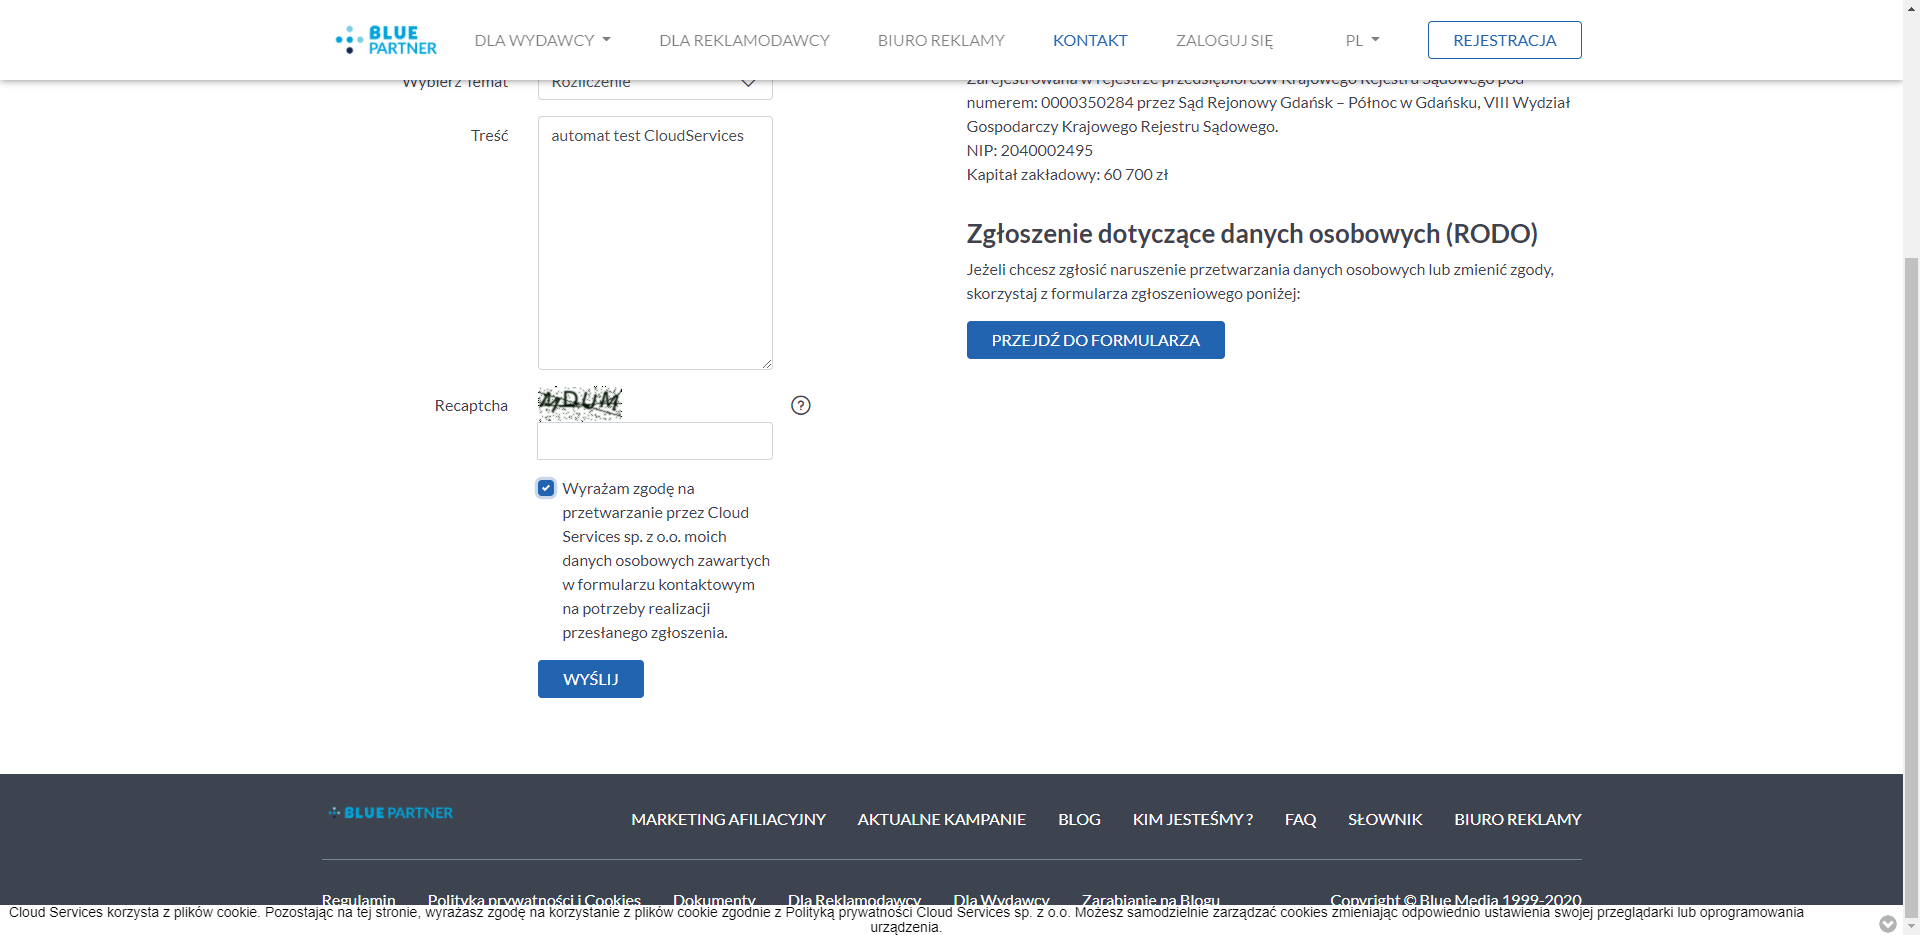
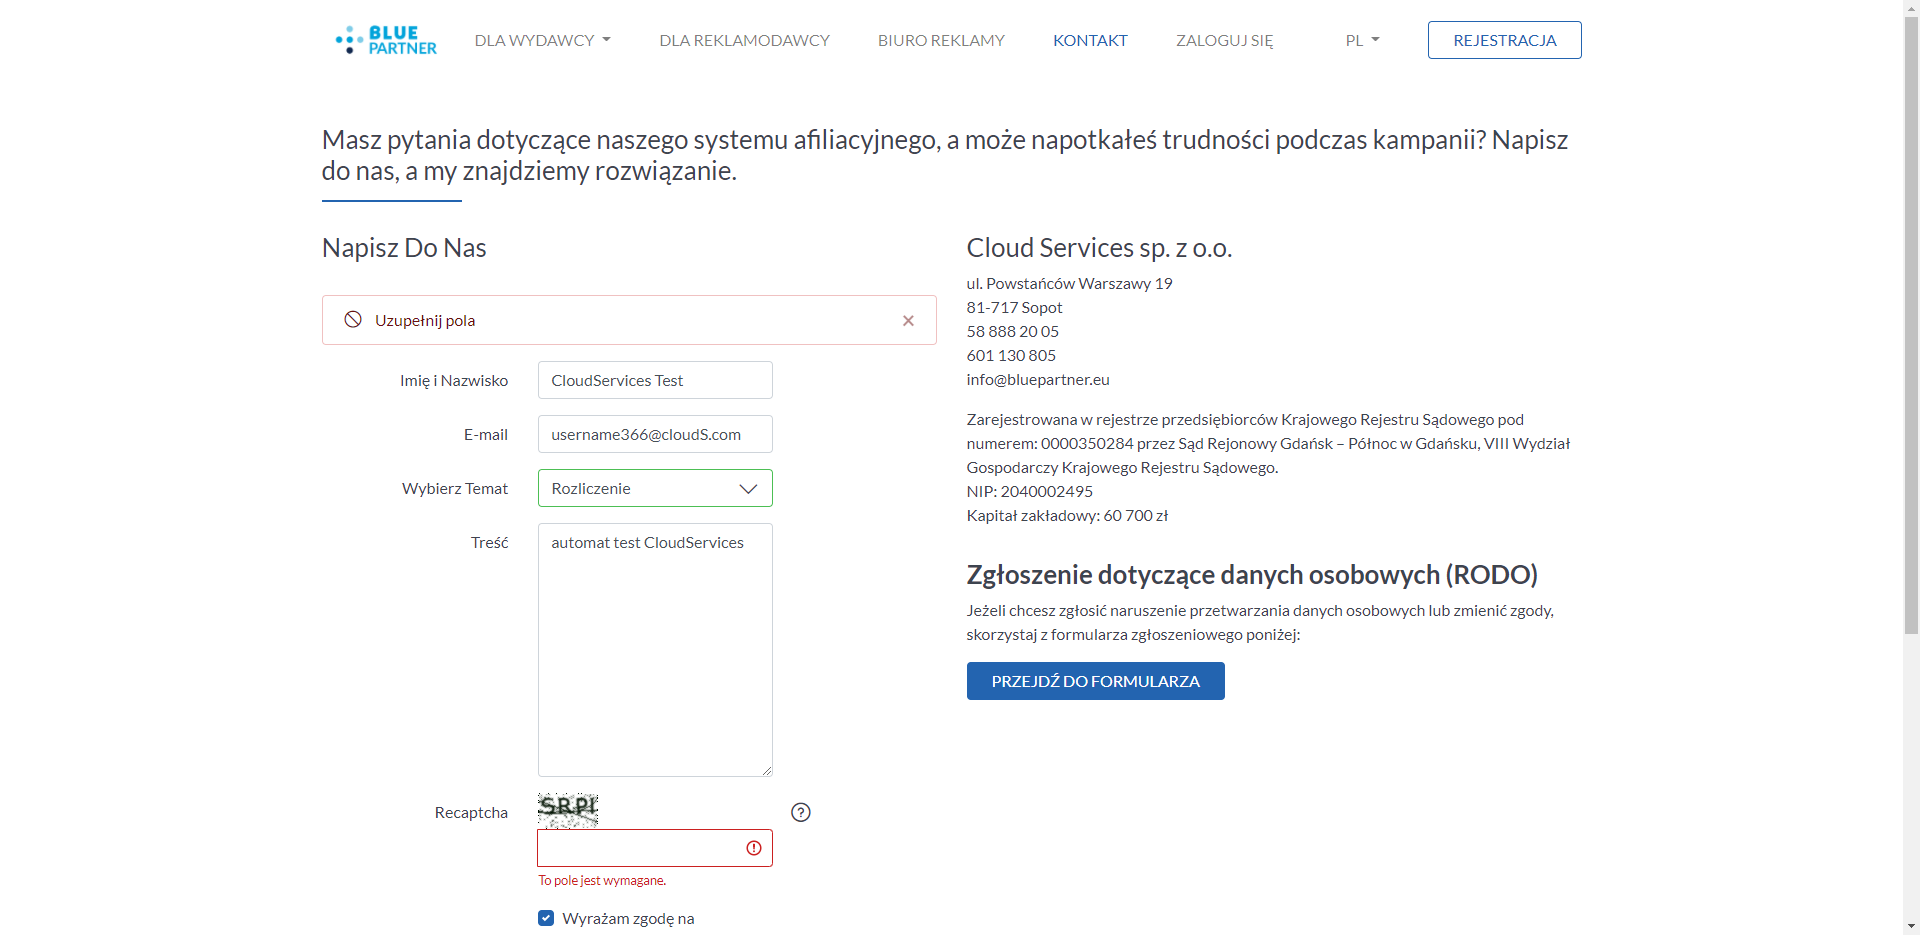
some changes

diff --git a/src/test/java/Test/FormPageTest.java b/src/test/java/Test/FormPageTest.java
@@ -1,6 +1,6 @@
 package Test;
 
-import Pages.FormPage;
+import pages.FormPage;
 import base.TestBase;
 import helpers.GlobalMethods;
 import org.testng.Assert;
@@ -25,14 +25,10 @@ public class FormPageTest extends TestBase {
     }
 
     @Test(priority = 1)
-    public void fillAllFieldsInForm() {
-        formPage.setNameInput(testdata.getProperty("name"));
-        formPage.setMailInput(globalMethods.emailGenerator());
-        formPage.setTopicFromList(testdata.getProperty("topic"));
-        formPage.setTextInput(testdata.getProperty("text"));
+    public void fillAllTheFieldsErrorDisplay() {
+        formPage.fillAllFieldsInForm();
         globalMethods.takeScreenShot(1);
-        formPage.clickRodoButton();
-        formPage.clickSendButton();
+        Assert.assertTrue(formPage.FillAllFieldsValidation(), "Coś poszło nie tak i przeszło dalej :(");
     }
 
     @Test (priority = 2)
@@ -40,11 +36,4 @@ public class FormPageTest extends TestBase {
         Assert.assertTrue(formPage.captchaInputNotFilled(), "uzupełnione? :(");
         globalMethods.takeScreenShot(2);
     }
-
-    @Test(priority = 2)
-    public void fillAllTheFieldsErrorDisplay() {
-        Assert.assertTrue(formPage.FillAllFieldsValidation(), "Coś poszło nie tak i przeszło dalej :(");
-    }
-
-
 }

diff --git a/src/main/java/helpers/GlobalMethods.java b/src/main/java/helpers/GlobalMethods.java
@@ -2,6 +2,7 @@ package helpers;
 
 import base.TestBase;
 import org.apache.commons.io.FileUtils;
+import org.openqa.selenium.JavascriptExecutor;
 import org.openqa.selenium.OutputType;
 import org.openqa.selenium.TakesScreenshot;
 import org.openqa.selenium.WebElement;
@@ -19,11 +20,13 @@ public class GlobalMethods extends TestBase {
 
     public void setInput(WebElement inputElement, String text) {
         wait.until(visibilityOf(inputElement));
+        scrollPage(inputElement);
         inputElement.clear();
         inputElement.sendKeys(text);
     }
 
     public void clickButton(WebElement buttonElement) {
+        scrollPage(buttonElement);
         wait.until(ExpectedConditions.elementToBeClickable(buttonElement)).click();
     }
 
@@ -46,5 +49,9 @@ public class GlobalMethods extends TestBase {
         Random randomGenerator = new Random();
         int randomInt = randomGenerator.nextInt(1000);
         return "username" + randomInt + "@cloudS.com";
+    }
+
+    public void scrollPage(WebElement webElement) {
+        ((JavascriptExecutor) driver).executeScript("arguments[0].scrollIntoView(true);", webElement);
     }
 }

diff --git a/src/main/java/pages/FormPage.java b/src/main/java/pages/FormPage.java
@@ -1,4 +1,4 @@
-package Pages;
+package pages;
 
 import base.TestBase;
 import helpers.GlobalMethods;
@@ -62,11 +62,9 @@ public class FormPage extends TestBase {
     }
 
     public void clickRodoButton() {
-        ((JavascriptExecutor) driver).executeScript("arguments[0].scrollIntoView(true);", sendButton);
         globalMethods.clickButton(rodoCheckBox);
     }
     public void clickSendButton() {
-        ((JavascriptExecutor) driver).executeScript("arguments[0].scrollIntoView(true);", sendButton);
         globalMethods.clickButton(sendButton);
     }
 
@@ -76,5 +74,16 @@ public class FormPage extends TestBase {
 
     public boolean captchaInputNotFilled() {
         return globalMethods.visibilityOfElement(captcha);
+    }
+
+    public void fillAllFieldsInForm() {
+        setNameInput(testdata.getProperty("name"));
+        setMailInput(globalMethods.emailGenerator());
+        setTopicFromList(testdata.getProperty("topic"));
+        setTextInput(testdata.getProperty("text"));
+
+        clickRodoButton();
+        clickSendButton();
+
     }
 }

diff --git a/src/main/java/base/TestBase.java b/src/main/java/base/TestBase.java
@@ -77,6 +77,6 @@ public class TestBase {
 
     public static void testEnds() {
         System.out.println("Testy zakończone");
-        driver.close();
+        driver.quit();
     }
 }
